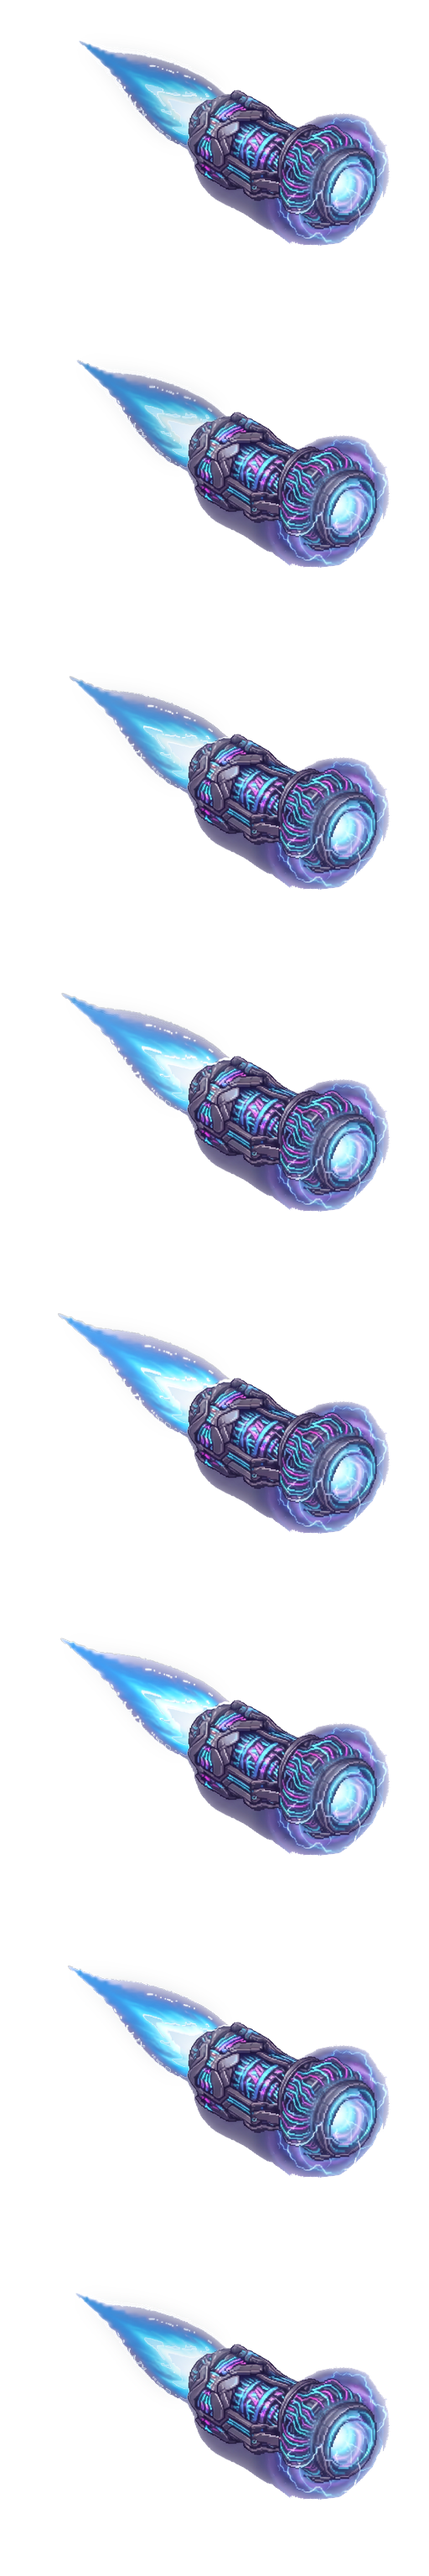
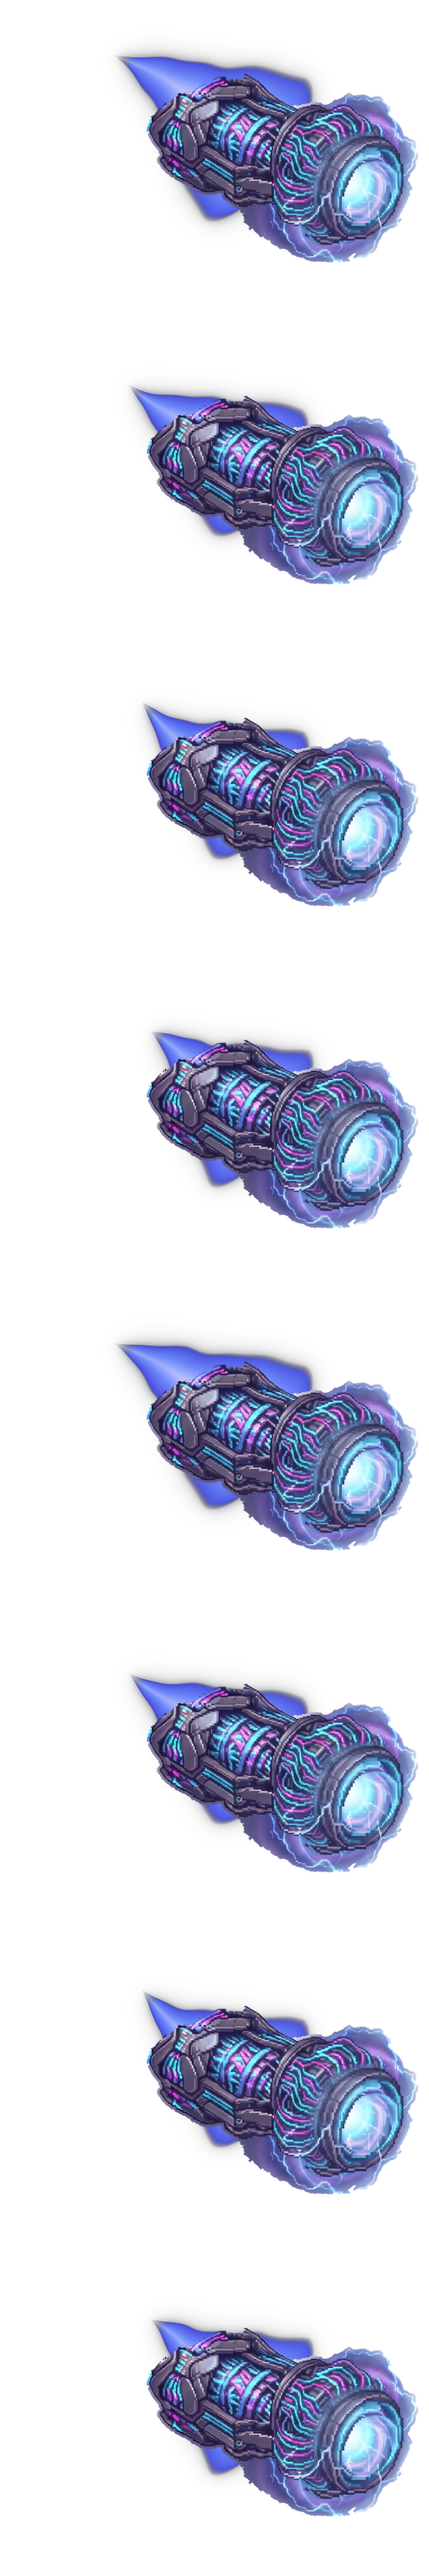
Integrate engine graphics levels 1-15

diff --git a/antriebe/Antriebsgrafiken_LVL1-12/README.md b/antriebe/Antriebsgrafiken_LVL1-12/README.md
@@ -1,37 +1,47 @@
-# Antriebsgrafiken LVL 1-12
+# Antriebsgrafiken LVL 1-15
 
-Basiert 1:1 auf den neuen Referenzbildern (12 Triebwerks-Stufen).
-Die Ausrichtung der Referenz wurde nicht veraendert: Flamme spritzt nach
+Erweiterung des bestehenden Satzes auf **15 Stufen** (Ordnername aus
+Kompatibilitaetsgruenden unveraendert: `Antriebsgrafiken_LVL1-12`).
+Die Ausrichtung der Referenzen wurde nicht veraendert: Flamme spritzt nach
 oben-links, Gehaeuse laeuft nach unten-rechts, 3/4-Perspektive erhalten.
 
+## Was wurde geaendert?
+- **LVL 1-9:** unveraendert uebernommen (bewährte Grafiken).
+- **LVL 10-12:** Koerper aus den hochaufgeloesten Referenz-Sprites neu
+  extrahiert (eingebrannte Flammenreste und Schattenwuerfe entfernt),
+  LVL 10 sichtbar vergroessert (Koerperdiagonale ~200 -> ~300 px), neue
+  grosse Flammen mit Feuerkugel am Ausgang, neues Glow.
+- **LVL 13-15:** originalgetreu separiert aus `graphics levels 13-15.jpg`
+  (Watershed-/Achsen-Separation, keine erfundenen Designs). Koerper-
+  Diagonalen ~420/434/459 px. Flammen als Plasmasturm (13), Neonlanze (14)
+  und Novakern mit Goldfunken (15) - Palette je Originaldesign.
+- **Groessenentwicklung** monoton steigend LVL 10 -> 15
+  (Koerperdiag. 299/349/393/419/434/459 px).
+- **meta.json** um die Stufen 13-15 erweitert (10-12 aktualisiert);
+  Stufen 1-9 unveraendert. Anker bleibt (336, 200) in der 512x384-Zelle,
+  8 Frames @ 12 fps, nahtloser Loop.
+
 ## Inhalt
-- `atlas/` — fertige Animations-Atlanten (Koerper + Flamme + Glow),
-  8 Frames @ 12 fps, nahtloser Loop, Zelle 512x384, vertikal gestapelt
-  (Datei 512x3072). Dateiname: `engine_lvlNN_anim_8frames_512x384.png`.
-- `ebenen/` — einzelne Ebenen fuer die eigene Komposition im Spiel:
-  - `engine_lvlNN_body_512x384.png` — statischer Koerper ohne Flamme
-  - `engine_lvlNN_flame_8frames_512x384.png` — animierte Flamme (8 Frames)
-  - `engine_lvlNN_glow_8frames_512x384.png` — animiertes Flammenleuchten
-- `previews/` — GIF-Vorschau je Stufe, kombinierte animierte Uebersicht
-  (`alle_stufen_animiert.gif`) und statischer Kontaktbogen.
+- `atlas/` — fertige Animations-Atlanten LVL 1-15 (Koerper+Flamme+Glow),
+  8 Frames @ 12 fps, Zelle 512x384, vertikal gestapelt (512x3072).
+- `ebenen/` — einzelne Ebenen je Stufe: `_body_`, `_flame_8frames_`,
+  `_glow_8frames_` (je 512x384 bzw. 512x3072).
+- `designs/` — die separierten Original-Designs LVL 13-15
+  (transparent, voll aufgeloest, inkl. Wirbel/Strahl/Bogen-Effekte).
+- `previews/` — GIF-Vorschau je Stufe + `alle_stufen_animiert.gif`.
+- `graphics levels 13-15.jpg` — unveraenderte Original-Quellgrafik.
+- `meta.json` — 15 Stufen mit Anker, Skalierung, Flammenfarbe.
 
-## Konventionen (wie im bisherigen Spiel)
-- Alle 12 Sprites: gleiche Canvas (512x384), gleicher Anker:
-  Koerper-Zentrum bei (336, 200) in jeder Zelle.
-- Groesse wächst monoton von LVL 1 (93 px Koerper-Diagonale) bis
-  LVL 12 (320 px), korrigiert gegenueber der Referenz per isotone Fit.
-- Flammenfarben wie Referenz: LVL 1-6 orange-rot, LVL 7-9 gelb-weiss,
-  LVL 10-12 blau.
-- Hintergrund: komplett transparent (weisser Grund und Bodenschatten
-  der Referenz entfernt).
+## Notwendige Aenderung an main.py
+In `_load_engine_sprite_data` die Stufen-Obergrenze von 12 auf 15 heben:
 
-## Animation
-Radiale Deformation um die Flammenwurzel (Laengenpuls -4 % bis +13 %),
-Spitzen-Sway und Helligkeitspuls; Phase 8 Frames = Phase 0 -> nahtlos.
-Frame 0 jedes Atlas entspricht der bereinigten Referenz.
+    -    lvl = max(1, min(12, int(level)))
+    +    lvl = max(1, min(15, int(level)))
 
-## Hinweise zur Integration
-- Werft-/Upgrade-Logik unberuehrt; Grafiken ersetzen nur die Assets.
-- Fuer Montage am Schiff: `body` statisch platzieren, `flame`+`glow`
-  dahinter mit demselben Anker (Zellkoordinaten) komponieren.
-- `meta.json` enthaelt je Stufe Skalierung, Flammenfarbe und Ankerdaten.
+Exakter Patch: `integration/main_py_patch.diff`.
+Pruefung: `python integration/integration_check.py` (Repo-Hauptordner).
+
+Die Module `antrieb` haben in `game_data.xlsx` bereits MaxLevel 15;
+weitere Codeaenderungen sind nicht erforderlich. `engine_effect.py`
+und die Werft-Vorschau (`load_antrieb_image`) funktionieren unveraendert
+(die Werft blendet fuer Stufen 13-15 auf die letzte vorhandene PNG).
